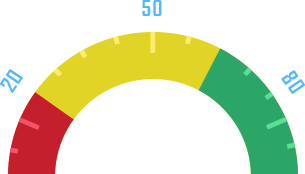
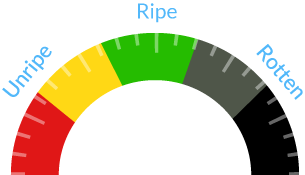
launch the app

diff --git a/app/scripts/main.js b/app/scripts/main.js
@@ -81,6 +81,27 @@
 var timer = {};
 var timeout = {};
 
+
+// https://github.com/husa/timer.js
+!function(a,b){"use strict";"function"==typeof define&&define.amd?define([],b):"object"==typeof exports?module.exports=b():a.Timer=b()}(this,function(){"use strict";function a(){c.call(this),this._.status="stopped",b.call(this,"onend")}function b(a){var b=this._.options[a],c=[].slice.call(arguments,1);"function"==typeof b&&b.apply(this,c)}function c(a){clearTimeout(this._.timeout),clearInterval(this._.interval),a===!0&&(this._.duration=0)}var d={tick:1,onstart:null,ontick:null,onpause:null,onstop:null,onend:null},e=function(a){if(!(this instanceof e))return new e(a);this._={id:+new Date,options:{},duration:0,status:"initialized",start:0,measures:[]};for(var b in d)this._.options[b]=d[b];this.options(a)};return e.prototype.start=function(c){return+c||this._.duration?(c&&(c*=1e3),this._.timeout&&"started"===this._.status?this:(this._.duration=c||this._.duration,this._.timeout=setTimeout(a.bind(this),this._.duration),"function"==typeof this._.options.ontick&&(this._.interval=setInterval(function(){b.call(this,"ontick",this.getDuration())}.bind(this),1e3*+this._.options.tick)),this._.start=+new Date,this._.status="started",b.call(this,"onstart",this.getDuration()),this)):this},e.prototype.pause=function(){return"started"!==this._.status?this:(this._.duration-=+new Date-this._.start,c.call(this,!1),this._.status="paused",b.call(this,"onpause"),this)},e.prototype.stop=function(){return/started|paused/.test(this._.status)?(c.call(this,!0),this._.status="stopped",b.call(this,"onstop"),this):this},e.prototype.getDuration=function(){return"started"===this._.status?this._.duration-(+new Date-this._.start):"paused"===this._.status?this._.duration:0},e.prototype.getStatus=function(){return this._.status},e.prototype.options=function(a,b){if(a&&b&&(this._.options[a]=b),!b&&"object"==typeof a)for(var c in a)this._.options.hasOwnProperty(c)&&(this._.options[c]=a[c]);return this},e.prototype.on=function(a,b){return"string"!=typeof a||"function"!=typeof b?this:(/^on/.test(a)||(a="on"+a),this._.options.hasOwnProperty(a)&&(this._.options[a]=b),this)},e.prototype.off=function(a){return"string"!=typeof a?this:(a=a.toLowerCase(),"all"===a?(this._.options=d,this):(/^on/.test(a)||(a="on"+a),this._.options.hasOwnProperty(a)&&(this._.options[a]=d[a]),this))},e.prototype.measureStart=function(a){return this._.measures[a||""]=+new Date,this},e.prototype.measureStop=function(a){return+new Date-this._.measures[a||""]},e});
+
+var myTimer = new Timer({
+  tick    : 1,
+  ontick  : function(ms) { 
+    $('.timer').attr('data-num','0' +  Math.round(ms/1000));
+  },
+  onstart : function() { /*console.log('timer started')*/ },
+  onstop  : function() { /*console.log('timer stop')*/ },
+  onpause : function() { /*console.log('timer set on pause')*/ },
+  onend   : function() {
+    // console.log('timer ended normally');
+    $('.phase2').fadeOut( "400", function() {
+      $(this).prev().fadeIn();
+      $('.timer').attr('data-num',10);
+    });
+  }
+});
+
 // https://github.com/inorganik/countUp.js/blob/master/dist/countUp.min.js
 !function(a,t){"function"==typeof define&&define.amd?define(t):"object"==typeof exports?module.exports=t(require,exports,module):a.CountUp=t()}(this,function(a,t,n){var e=function(a,t,n,e,i,r){for(var o=0,s=["webkit","moz","ms","o"],m=0;m<s.length&&!window.requestAnimationFrame;++m)window.requestAnimationFrame=window[s[m]+"RequestAnimationFrame"],window.cancelAnimationFrame=window[s[m]+"CancelAnimationFrame"]||window[s[m]+"CancelRequestAnimationFrame"];window.requestAnimationFrame||(window.requestAnimationFrame=function(a,t){var n=(new Date).getTime(),e=Math.max(0,16-(n-o)),i=window.setTimeout(function(){a(n+e)},e);return o=n+e,i}),window.cancelAnimationFrame||(window.cancelAnimationFrame=function(a){clearTimeout(a)});var u=this;u.options={useEasing:!0,useGrouping:!0,separator:",",decimal:".",easingFn:null,formattingFn:null};for(var l in r)r.hasOwnProperty(l)&&(u.options[l]=r[l]);""===u.options.separator&&(u.options.useGrouping=!1),u.options.prefix||(u.options.prefix=""),u.options.suffix||(u.options.suffix=""),u.d="string"==typeof a?document.getElementById(a):a,u.startVal=Number(t),u.endVal=Number(n),u.countDown=u.startVal>u.endVal,u.frameVal=u.startVal,u.decimals=Math.max(0,e||0),u.dec=Math.pow(10,u.decimals),u.duration=1e3*Number(i)||2e3,u.formatNumber=function(a){a=a.toFixed(u.decimals),a+="";var t,n,e,i;if(t=a.split("."),n=t[0],e=t.length>1?u.options.decimal+t[1]:"",i=/(\d+)(\d{3})/,u.options.useGrouping)for(;i.test(n);)n=n.replace(i,"$1"+u.options.separator+"$2");return u.options.prefix+n+e+u.options.suffix},u.easeOutExpo=function(a,t,n,e){return n*(-Math.pow(2,-10*a/e)+1)*1024/1023+t},u.easingFn=u.options.easingFn?u.options.easingFn:u.easeOutExpo,u.formattingFn=u.options.formattingFn?u.options.formattingFn:u.formatNumber,u.version=function(){return"1.7.1"},u.printValue=function(a){var t=u.formattingFn(a);"INPUT"===u.d.tagName?this.d.value=t:"text"===u.d.tagName||"tspan"===u.d.tagName?this.d.textContent=t:this.d.innerHTML=t},u.count=function(a){u.startTime||(u.startTime=a),u.timestamp=a;var t=a-u.startTime;u.remaining=u.duration-t,u.options.useEasing?u.countDown?u.frameVal=u.startVal-u.easingFn(t,0,u.startVal-u.endVal,u.duration):u.frameVal=u.easingFn(t,u.startVal,u.endVal-u.startVal,u.duration):u.countDown?u.frameVal=u.startVal-(u.startVal-u.endVal)*(t/u.duration):u.frameVal=u.startVal+(u.endVal-u.startVal)*(t/u.duration),u.countDown?u.frameVal=u.frameVal<u.endVal?u.endVal:u.frameVal:u.frameVal=u.frameVal>u.endVal?u.endVal:u.frameVal,u.frameVal=Math.round(u.frameVal*u.dec)/u.dec,u.printValue(u.frameVal),t<u.duration?u.rAF=requestAnimationFrame(u.count):u.callback&&u.callback()},u.start=function(a){return u.callback=a,u.rAF=requestAnimationFrame(u.count),!1},u.pauseResume=function(){u.paused?(u.paused=!1,delete u.startTime,u.duration=u.remaining,u.startVal=u.frameVal,requestAnimationFrame(u.count)):(u.paused=!0,cancelAnimationFrame(u.rAF))},u.reset=function(){u.paused=!1,delete u.startTime,u.startVal=t,cancelAnimationFrame(u.rAF),u.printValue(u.startVal)},u.update=function(a){cancelAnimationFrame(u.rAF),u.paused=!1,delete u.startTime,u.startVal=u.frameVal,u.endVal=Number(a),u.countDown=u.startVal>u.endVal,u.rAF=requestAnimationFrame(u.count)},u.printValue(u.startVal)};return e});
 var options = {
@@ -92,41 +113,65 @@ var options = {
   suffix : '' 
 };
 
+// Returns a random number between min (inclusive) and max (exclusive) // 69 , 26 , 180
+function random_num(min, max) {
+  return Math.floor(Math.random() * (max - min)) + min;
+}
 
 function tictac(){
-  timer = setInterval(function(){
-    $('.timer').attr('data-num','0' + ($('.timer').attr('data-num')-1))
-  }, 1000);
-  timeout = setTimeout(function(){
-    clearInterval(timer);
-    $('.phase2').fadeOut( "400", function() {
-      $(this).prev().fadeIn();
-    });
-    $('.timer').attr('data-num',10);
-  }, 10000); 
+  // timer = setInterval(function(){
+  //   $('.timer').attr('data-num','0' + ($('.timer').attr('data-num')-1));
+  // }, 1000);
+  myTimer.start(10)
+  // timeout = setTimeout(function(){
+  //   clearInterval(timer);
+  //   $('.phase2').fadeOut( "400", function() {
+  //     $(this).prev().fadeIn();
+  //   });
+  //   $('.timer').attr('data-num',10);
+  // }, 10000); 
 }
 var in_phase3 = false;
 function go_to_phase3() {
   in_phase3 = true;
-  clearTimeout(timeout);
-  clearInterval(timer);
+  // clearTimeout(timeout);
+  // clearInterval(timer);
+  myTimer.stop();
   $('.phase2').fadeOut( "400", function() {
+    $('.timer').attr('data-num',10);
     $(this).next().fadeIn( "400", function() {
       var rand = random_num(0, 180);
+      var status_msg = '';
+      // console.log(rand);
+      if (rand < 36) {status_msg = 'Unripe';} 
+      else if (rand >= 36 && rand < 72) {status_msg = 'Almost Ripe';} 
+      else if (rand >= 72 && rand < 108) {status_msg = 'Ripe';} 
+      else if (rand >= 108 && rand < 144) {status_msg = 'Almost Rotten';} 
+      else {status_msg = 'Rotten';}
+      
       $('.tester-indicator').css('transform','rotate(' + rand + 'deg)');
       // $('#percent').html(Math.round(rand/1.8));
       var max = Math.round(rand/1.8);
       var numnum = new CountUp("percent", 0, max, 0, 2.5, options);
       numnum.start();
+      $('#status').fadeOut( "400", function() {
+        $(this).html(status_msg);
+        setTimeout(function() { $('#status').fadeIn(); }, 750);
+      });
     });
   });
 }
-function random_num(min, max) {                     // Returns a random number between min (inclusive) and max (exclusive) // 69 , 26 , 180
-  return Math.floor(Math.random() * (max - min)) + min;
-}
+
 
 /////////////////////////////////////////////
 $( document ).ready(function(){
+
+  // Hides mobile browser's address bar when page is done loading.
+  window.addEventListener('load', function(e) {
+    setTimeout(function() { window.scrollTo(0, 1); }, 1);
+  }, false);
+
+
   //plugin function, place inside DOM ready function
     outdatedBrowser({
         bgColor: '#f25648',
@@ -135,14 +180,16 @@ $( document ).ready(function(){
         languagePath: ''
     });
 
+    /////////////////////////////////////   My Code   /////////////////////////////////////
     // phases
-    $('.phase1').on('click',function(event){
+    $('.phase1 .btn, .phase3 .go_back').on('click',function(event){
       event.preventDefault();
+      myTimer.stop();
       $(this).closest('.phase').fadeOut( "400", function() {
-        $(this).next().fadeIn();
+        $('.phase2').fadeIn();
         tictac();
       });
-    })
+    });
 
     var delta = 0;
 
@@ -152,7 +199,7 @@ $( document ).ready(function(){
         // $("#delta").val("Delta("+(Math.round(event.beta - delta))+")");
         // $('#data').append('<br>beta: ' + Math.round(event.beta) + ', delta: ' + Math.round(event.beta - delta) + ', T: ' + (new Date).toISOString() + '');
         if ($('.phase1').css('display') == "none"  && $('.phase3').css('display') == "none") {
-          if ((Math.round(event.beta - delta)) < -28 && delta != 0) {
+          if ((Math.round(event.beta - delta)) < -18 && delta != 0) {
             go_to_phase3();
           }
           setTimeout(function(){
@@ -162,7 +209,7 @@ $( document ).ready(function(){
       }, true);
     } else {
       alert("Sorry, your Device isn't supported By This APP )-:");
-    } 
+    }
 
 
 });

diff --git a/app/index.html b/app/index.html
@@ -1,33 +1,17 @@
 <!doctype html>
-<html lang="">
+<html lang="eng">
 
 <head>
     <meta charset="utf-8">
     <meta http-equiv="X-UA-Compatible" content="IE=edge">
     <meta name="description" content="">
-    <meta name="viewport" content="width=device-width, user-scalable=no,initial-scale=1, maximum-scale=1">
+    <meta name="viewport" content="width=device-width, initial-scale=1, maximum-scale=1, user-scalable=no">
     <title>Avocado Tester App</title>
     <!-- Disable tap highlight on IE -->
     <meta name="msapplication-tap-highlight" content="no">
     <!-- Web Application Manifest -->
     <link rel="manifest" href="manifest.json">
-    <!-- Add to homescreen for Chrome on Android -->
-    <meta name="mobile-web-app-capable" content="yes">
-    <meta name="application-name" content="Web Starter Kit">
-    <link rel="icon" sizes="192x192" href="images/touch/chrome-touch-icon-192x192.png">
-    <!-- Add to homescreen for Safari on iOS -->
-    <meta name="apple-mobile-web-app-capable" content="yes">
-    <meta name="apple-mobile-web-app-status-bar-style" content="black">
-    <meta name="apple-mobile-web-app-title" content="Web Starter Kit">
-    <link rel="apple-touch-icon" href="images/touch/apple-touch-icon.png">
-    <!-- Tile icon for Win8 (144x144 + tile color) -->
-    <meta name="msapplication-TileImage" content="images/touch/ms-touch-icon-144x144-precomposed.png">
-    <meta name="msapplication-TileColor" content="#2F3BA2">
-    <!-- SEO: If your mobile URL is different from the desktop URL, add a canonical link to the desktop page https://developers.google.com/webmasters/smartphone-sites/feature-phones -->
-    <!--
-    <link rel="canonical" href="http://www.example.com/">
-    -->
-
+    
     <!-- Latest compiled and minified CSS -->
     <link rel="stylesheet" href="https://maxcdn.bootstrapcdn.com/bootstrap/3.3.6/css/bootstrap.min.css" integrity="sha384-1q8mTJOASx8j1Au+a5WDVnPi2lkFfwwEAa8hDDdjZlpLegxhjVME1fgjWPGmkzs7" crossorigin="anonymous">
 
@@ -40,9 +24,21 @@
     <link rel="stylesheet" href="https://cdn.rawgit.com/burocratik/outdated-browser/master/outdatedbrowser/outdatedbrowser.min.css">
     <script src="https://cdn.rawgit.com/burocratik/outdated-browser/master/outdatedbrowser/outdatedbrowser.min.js"></script>
 
-    <link rel="stylesheet" href="https://maxcdn.bootstrapcdn.com/font-awesome/4.6.3/css/font-awesome.min.css">
+    <!-- <link rel="stylesheet" href="https://maxcdn.bootstrapcdn.com/font-awesome/4.6.3/css/font-awesome.min.css"> -->
+    <script src="https://use.fontawesome.com/f46ac33efb.js"></script>
+
+    <!-- favicon -->
+    <link rel="apple-touch-icon" sizes="180x180" href="/apple-touch-icon.png?v=2">
+    <link rel="icon" type="image/png" href="/favicon-32x32.png?v=2" sizes="32x32">
+    <link rel="icon" type="image/png" href="/favicon-16x16.png?v=2" sizes="16x16">
+    <link rel="manifest" href="/manifest.json">
+    <link rel="mask-icon" href="/safari-pinned-tab.svg?v=2" color="#5bbad5">
+    <meta name="theme-color" content="#ffffff">
+
+
     <!-- Your styles -->
     <link rel="stylesheet" href="styles/main.css">
+
 </head>
 
 <body class="">
@@ -62,7 +58,7 @@
     
       <div class="phase phase1">
         <img src="images/avocado.png" alt="" class="img-responsive center-block main_image">
-        <div class="desc text-center">Hold your fruit and press</div>
+        <!-- <div class="desc text-center">Hold your fruit and press</div> -->
         <button type="button" class="btn btn-success btn-lg btn-block">BEGIN TEST</button>
       </div>
       <div class="phase phase2" style="display: none;">
@@ -72,13 +68,18 @@
       </div>
       <div class="phase phase3" style="display: none;">
         <div class="img_wrapper">
-          <img src="images/tester-bg.png" alt="" class="img-responsive center-block tester-bg">
+          <img src="images/tester-bg.svg" alt="" class="img-responsive center-block tester-bg">
           <div class="indicator_wrapper">
             <img src="images/tester-indicator.png" alt="" class="center-block tester-indicator">
           </div>
         </div>
         <div class="result">
-          <span id="percent">0</span><span> Ripe</span>
+          <span id="percent" class="hidden">0 </span><span id="status" style="display:none;"></span>
+        </div>
+        <div class="social">
+            <a class="go_back" href="#"><i class="fa fa-angle-left" aria-hidden="true"></i>Test another Avocado</a>
+            <a href="https://www.facebook.com/AvocadoTester" class="facebook" target="_blank"><i class="fa fa-facebook" aria-hidden="true"></i></a>
+            <a href="https://twitter.com/AvocadoTester" class="twitter" target="_blank"><i class="fa fa-twitter" aria-hidden="true"></i></a>
         </div>
       </div>
 
@@ -86,6 +87,14 @@
     <footer class="container-fluid"></footer>
 
     <div id="outdated"></div>
+    <div id="overlay" class="hidden-xs">
+        <img src="images/desktop_error.png" alt="" class="img-responsive center-block desktop_error">
+        <div class="error">Avocado Tester© only works on mobile devices</div>
+        <div class="instructions">Scan the QRcode below to access the app</div>
+        <div class="qr_code">
+            <img src="images/static_qr_code_without_logo.jpg" alt="" class="img-responsive center-block">
+        </div>
+    </div>
     <script src="https://ajax.googleapis.com/ajax/libs/jquery/2.2.4/jquery.min.js"></script>
     <!-- Latest compiled and minified JavaScript -->
     <script src="https://maxcdn.bootstrapcdn.com/bootstrap/3.3.6/js/bootstrap.min.js" integrity="sha384-0mSbJDEHialfmuBBQP6A4Qrprq5OVfW37PRR3j5ELqxss1yVqOtnepnHVP9aJ7xS" crossorigin="anonymous"></script>
@@ -108,7 +117,7 @@
     ga('create', 'UA-XXXXX-X', 'auto');
     ga('send', 'pageview');
     </script>
-    <!-- Built with love using Web Starter Kit -->
+    <!-- Built with love using Avocado Tester App -->
 </body>
 
 </html>

diff --git a/app/styles/main.scss b/app/styles/main.scss
@@ -19,34 +19,48 @@
 body {font-family: 'Lato', sans-serif;}
 header.container-fluid {margin: 15px 0; }
 
-.phase1, .phase2, .phase3 {min-height: calc(100vh - 118px); display: flex; flex-direction: column; text-align: center; justify-content: space-around;} 
+.phase1, .phase2, .phase3 {min-height: calc(100vh - 200px); display: flex; flex-direction: column; text-align: center; justify-content: space-around;
+	> * { flex-shrink: 0; }
+} 
 .phase1 {
-	img {
-		&.main_image { margin-top: 15px; margin-bottom: 15px; }
-		&.gif { margin-top: 30px; margin-bottom: 50px; }
-	}
 	.desc { color: black; font-size: 20px; font-weight: 300; line-height: 22px; }
-	.btn-success { height: 58px; /* background-color: #76ba39; */ border-radius: 5px; color: white; font-size: 26px; font-weight: 300; line-height: 22px; border: none; margin-top: 15px; margin-bottom: 15px;}
+	.btn-success { height: 58px; /* background-color: #76ba39; */ border-radius: 5px; color: white; font-size: 26px; font-weight: 300; line-height: 22px; border: none; }
 }
 .phase2 {
-	.cta { color: red; font-size: 26px; font-weight: 300; line-height: 32px; margin: 15px auto; text-align: center; }
-	.timer { color: red; font-size: 26px; font-weight: 300; line-height: 22px; margin: 15px auto; text-align: center;
+	.cta { color: red; font-size: 26px; font-weight: 300; line-height: 32px; text-align: center; }
+	.timer { color: red; font-size: 26px; font-weight: 300; line-height: 22px; text-align: center;
 		&:after {
 		   content:attr(data-num);
 		}
 	}
 }
-.phase3 { color: black; font-size: 26px; font-weight: 300; line-height: 22px;
+.phase3 { color: black; font-size: 26px; font-weight: 300; line-height: 22px ;
 	.img_wrapper {position: relative; margin-bottom: 80px;
-		&:before { content: 'Unripe'; position: absolute; top: calc(100% + 5px); left: 0;}
-		&:after { content: 'Ripe'; position: absolute; top: calc(100% + 5px); right: 0;}
+		// &:before { content: 'Unripe'; position: absolute; top: calc(100% + 15px); left: 0;}
+		// &:after { content: 'Ripe'; position: absolute; top: calc(100% + 15px); right: 0;}
 		.indicator_wrapper {position: absolute; top: 100%; left: 50%; -webkit-transform: translate(-50%, -50%); -khtml-transform: translate(-50%, -50%); -moz-transform: translate(-50%, -50%); -ms-transform: translate(-50%, -50%); -o-transform: translate(-50%, -50%); transform: translate(-50%, -50%);
 			img.tester-indicator {-webkit-transform: rotate(0deg); -khtml-transform: rotate(0deg); -moz-transform: rotate(0deg); -ms-transform: rotate(0deg); -o-transform: rotate(0deg); transform: rotate(0deg); transition: all 1s ease; -webkit-touch-callout: none; -webkit-user-select: none; -khtml-user-select: none; -moz-user-select: none; -ms-user-select: none; user-select: none;}
 		}
 	}
-	.result { color: black; font-size: 46px; line-height: 22px; font-weight: 300; text-align: center;
+	.result { color: black; font-size: 44px; line-height: 22px; font-weight: 300; text-align: center; height: 55px; flex-grow: 1;
 		#percent { font-weight: 700;
 			&:after { content: "%"; }
 		}
 	}
+	.social {height: 50px; background-color: #e6e6e6; line-height: 50px; text-align: center; display: flex; justify-content: space-between;
+		> * { flex-shrink: 0; }
+		.go_back { color: black; font-size: 16px; font-weight: 400; line-height: 50px; text-decoration: underline; vertical-align: middle; flex-grow:1; text-align: center;
+			i { padding: 0 5px 0 0; font-size: 18px; vertical-align: middle; }
+		}
+		.facebook { color: #fff; display: inline-table; width: 50px; background: #364888; }
+		.twitter { color: #fff; display: inline-table; width: 50px; background: #65b8e3; }
+	}
 }
+#overlay { position: fixed; top: 0; left: 0; width: 100%; height: 100%; display: flex; flex-direction: column; justify-content: center;	align-items: center; background: #fff; z-index: 99999;
+	> * { flex-shrink: 0; }
+	img.desktop_error { margin-bottom: 30px; transform: translateX(-13px);}
+	.error { font-size: 28px; }
+	.instructions { font-size: 25px; color: #909090; font-weight: 300; }
+	.qr_code { margin: 30px auto 0; height: 150px; width: 150px;}
+}
+.grow { flex-grow: 1; }
